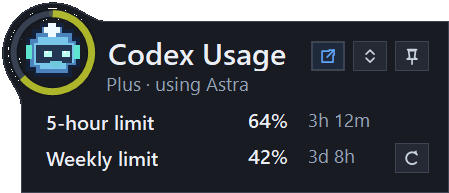
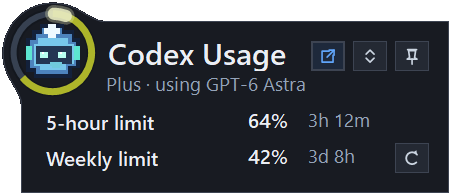
Prepare 2.1.0 screenshots and documentation (#71)

Changed region(s): [[0.0624, 0.0311, 0.1871, 0.4041], [0.4365, 0.4041, 0.686, 0.4974]]

diff --git a/tools/CodexUsageTray.ScreenshotGenerator/Program.cs b/tools/CodexUsageTray.ScreenshotGenerator/Program.cs
@@ -36,7 +36,7 @@ internal static class Program
 
         using var popup = new CodexUsageTray.UsagePopupForm(initialCompactView: false);
         popup.SetActivityForScreenshot(
-            new CodexUsageTray.CodexSessionActivity(DateTimeOffset.Now, CodexUsageTray.CodexModel.Astra));
+            new CodexUsageTray.CodexSessionActivity(DateTimeOffset.Now, CodexUsageTray.CodexModel.Astra, "6"));
         popup.ShowPresentation(presentation);
         popup.Location = new Point(-10_000, -10_000);
         popup.Show();

diff --git a/README.md b/README.md
@@ -16,7 +16,7 @@ This is an unofficial community project. It is not affiliated with OpenAI.
 
 The tray icon uses an outer ring for the 5-hour allowance and an inner ring for the weekly allowance. When the account reports only one allowance, that allowance uses a single outer ring. The popup omits allowances the account does not report and resizes to fit. The rings and extended-view bars change color continuously from green at 100% remaining through yellow near 50%, orange at 25%, and red at 10%. The app refreshes the limits and countdowns once a minute. It refreshes daily and lifetime activity when you open or switch to the extended view.
 
-The popup's pixel-art indicator shows Luna, Terra, Sol, or Astra when it can identify the active model from local Codex session logs. It animates while Codex produces tokens, changes pace based on allowance use, and pulses near or after an allowance reset. The account line shows the subscription with the active model or `Idle` in both views.
+The popup's pixel-art indicator shows Luna, Terra, Sol, or Astra when it can identify the active model from local Codex session logs. Its ring rotates at a speed based on allowance use relative to elapsed time, including while Codex is idle. A separate glow shows recent token activity and fades over 15 seconds. The indicator pulses near or after an allowance reset. The account line shows the subscription with the active model and its version, such as `GPT-6 Astra`, or `idle` in both views.
 
 ## Screenshots
 
@@ -97,7 +97,7 @@ The pin button keeps the popup open and above other windows. While pinned, drag 
 
 The app runs the installed Codex CLI in app-server mode to read account usage. If the sign-in expires, it can ask Codex to refresh the session and, after confirmation, start ChatGPT browser sign-in. It does not directly read, copy, or store credentials from `%USERPROFILE%\.codex\auth.json`.
 
-The activity indicator watches recent files in `%USERPROFILE%\.codex\sessions` and `%USERPROFILE%\.codex\archived_sessions` for token activity and model names. It reads these files locally and does not change them.
+The activity indicator watches recent files in `%USERPROFILE%\.codex\sessions` and `%USERPROFILE%\.codex\archived_sessions` for token activity and model names. It ignores internal `codex-auto-review` sessions when choosing the active model and activity state. This filter does not change inference totals. It reads these files locally and does not change them.
 
 The account service may publish daily token buckets a day late. If today's bucket is missing, the app totals `token_usage_record` entries from the local Codex session history. If the account total ends with yesterday's data, the app adds today's local total to the displayed inference total. Routine allowance refreshes retain same-day activity and its original observation time. On a new local date, today's retained activity clears while the lifetime total remains available with its observation time.
 
